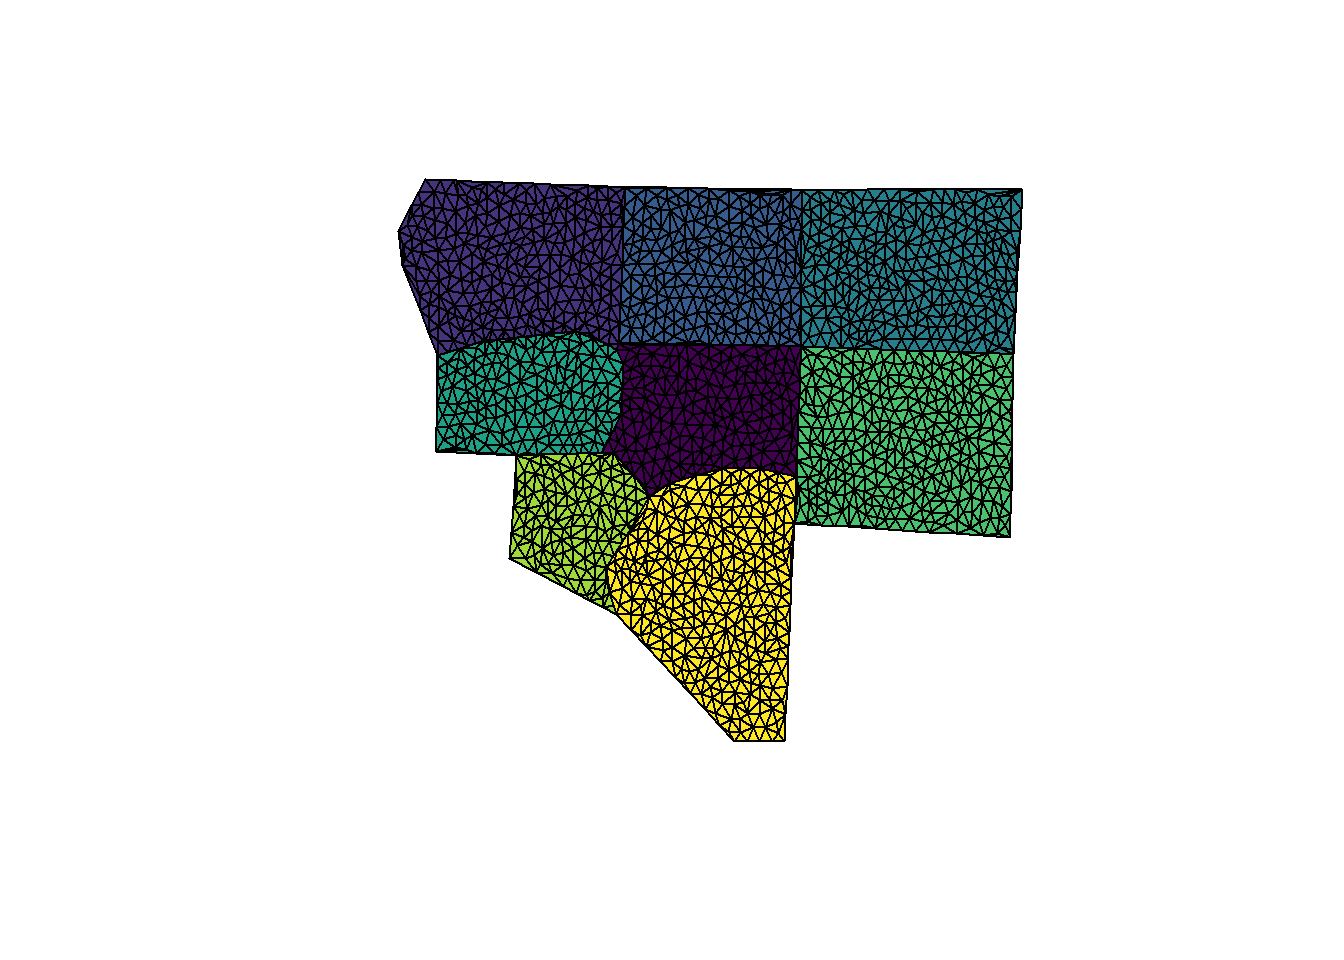
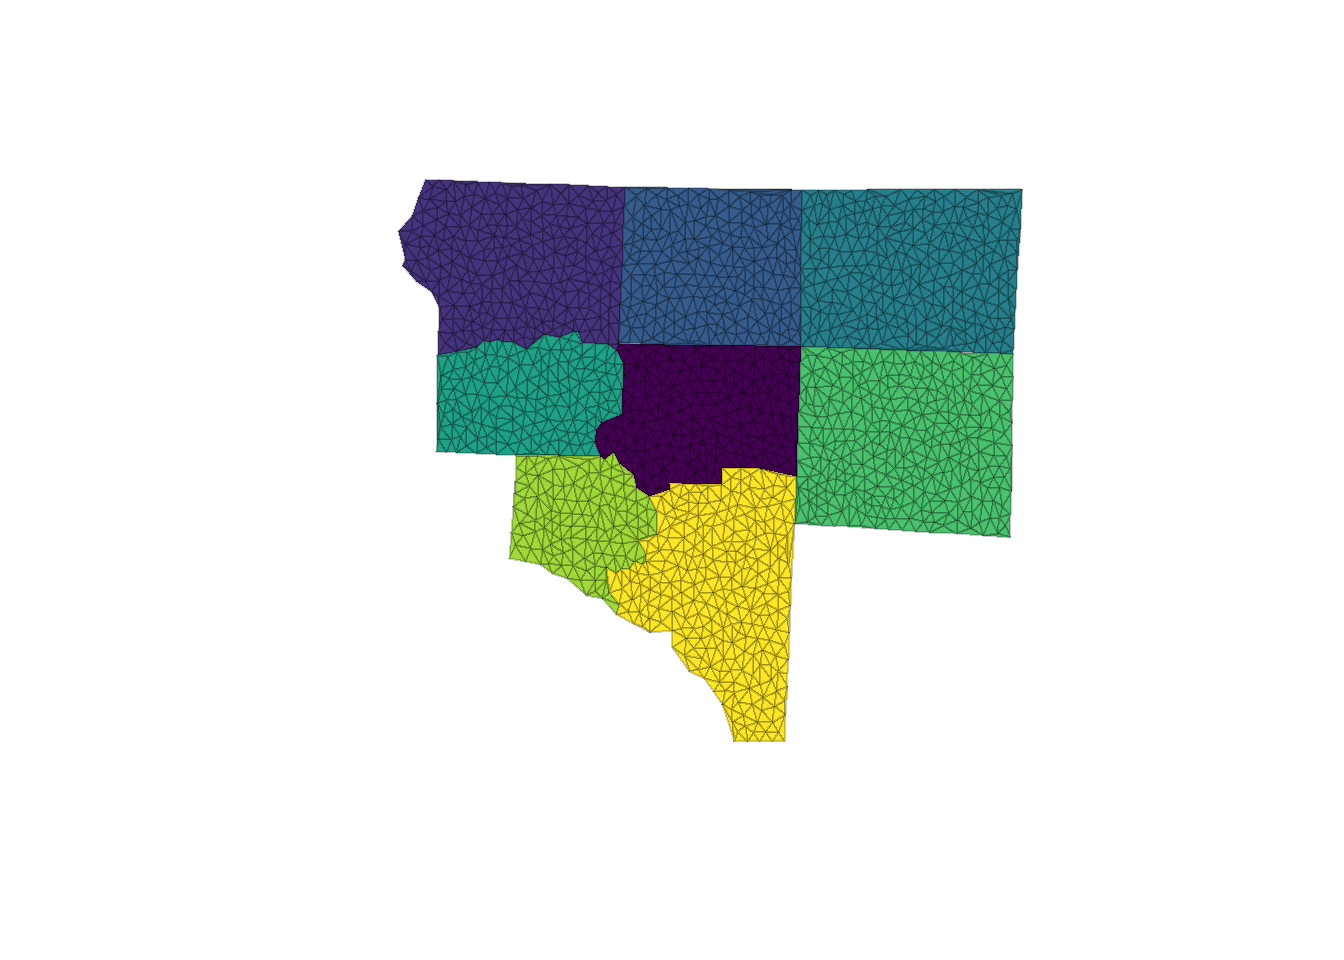
0.0.2

Changed region(s): [[0.2812, 0.1875, 0.7812, 0.7812]]

diff --git a/docs/articles/sfdct.html b/docs/articles/sfdct.html
@@ -53,7 +53,7 @@
       <h1>Constrained triangulation for Simple Features</h1>
                         <h4 class="author">Michael D. Sumner</h4>
             
-            <h4 class="date">2017-01-13</h4>
+            <h4 class="date">2017-02-04</h4>
           </div>
 
     
@@ -75,13 +75,16 @@ nc &lt;-<span class="st"> </span><span class="kw">st_read</span>(<span class="kw
 ## epsg (SRID):    4267
 ## proj4string:    +proj=longlat +datum=NAD27 +no_defs</code></pre>
 <div class="sourceCode"><pre class="sourceCode r"><code class="sourceCode r">nc_triangles &lt;-<span class="st"> </span><span class="kw"><a href="../reference/ct_triangulate.html">ct_triangulate</a></span>(nc)
-<span class="kw">plot</span>(nc_triangles, <span class="dt">col =</span> viridisLite::<span class="kw">viridis</span>(<span class="kw">nrow</span>(nc_triangles)))</code></pre></div>
+## note we have to use st_geometry to get a reasonable map 
+## in short time, unfortunately every single plot call has
+## to be modified, there's no flexibility provided from sf
+<span class="kw">plot</span>(<span class="kw">st_geometry</span>(nc_triangles),   <span class="dt">col =</span> viridisLite::<span class="kw">viridis</span>(<span class="kw">nrow</span>(nc_triangles)))</code></pre></div>
 <p><img src="sfdct_files/figure-html/example-1.png" width="672"></p>
 <p>We can use the underlying <code>RTriangle::triangulate</code> arguments to hone the triangles we get.</p>
 <div class="sourceCode"><pre class="sourceCode r"><code class="sourceCode r">i_feature &lt;-<span class="st"> </span><span class="dv">25</span>
 nc1 &lt;-<span class="st"> </span>nc[<span class="kw">c</span>(i_feature, <span class="kw">unlist</span>(<span class="kw">st_touches</span>(nc[i_feature, ], nc))), ]</code></pre></div>
 <pre><code>## although coordinates are longitude/latitude, it is assumed that they are planar</code></pre>
-<div class="sourceCode"><pre class="sourceCode r"><code class="sourceCode r"><span class="kw">plot</span>(nc1,<span class="dt">col =</span> viridisLite::<span class="kw">viridis</span>(<span class="kw">nrow</span>(nc1)))</code></pre></div>
+<div class="sourceCode"><pre class="sourceCode r"><code class="sourceCode r"><span class="kw">plot</span>(<span class="kw">st_geometry</span>(nc1),<span class="dt">col =</span> viridisLite::<span class="kw">viridis</span>(<span class="kw">nrow</span>(nc1)))</code></pre></div>
 <p><img src="sfdct_files/figure-html/hone-1.png" width="672"></p>
 <div class="sourceCode"><pre class="sourceCode r"><code class="sourceCode r">## subvert st_area because we really don't want m^2
 <span class="kw">st_crs</span>(nc1) &lt;-<span class="st"> </span><span class="ot">NA</span>
@@ -89,17 +92,18 @@ areas &lt;-<span class="st"> </span><span class="kw">st_area</span>(nc1)
 <span class="kw">st_crs</span>(nc1) &lt;-<span class="st"> </span><span class="kw">st_crs</span>(nc)
 nc1_triangles &lt;-<span class="st"> </span><span class="kw"><a href="../reference/ct_triangulate.html">ct_triangulate</a></span>(nc1, <span class="dt">a =</span> <span class="kw">min</span>(areas)/<span class="dv">5</span>)
 bcol &lt;-<span class="st"> </span>viridisLite::<span class="kw">viridis</span>(<span class="kw">nrow</span>(nc1_triangles))
-<span class="kw">plot</span>(nc1_triangles, <span class="dt">col =</span> <span class="ot">NA</span>, <span class="dt">border =</span> bcol)</code></pre></div>
+<span class="kw">plot</span>(<span class="kw">st_geometry</span>(nc1_triangles), <span class="dt">col =</span> <span class="ot">NA</span>, <span class="dt">border =</span> bcol)</code></pre></div>
 <p><img src="sfdct_files/figure-html/hone-2.png" width="672"></p>
 <div class="sourceCode"><pre class="sourceCode r"><code class="sourceCode r">nc2_triangles &lt;-<span class="st"> </span><span class="kw"><a href="../reference/ct_triangulate.html">ct_triangulate</a></span>(nc1, <span class="dt">a =</span> <span class="kw">min</span>(<span class="kw">st_area</span>(<span class="kw">st_set_crs</span>(nc1, <span class="ot">NA</span>)))/<span class="dv">25</span>)
-<span class="kw">plot</span>(nc2_triangles, <span class="dt">col =</span> <span class="ot">NA</span>, <span class="dt">border =</span> bcol)</code></pre></div>
+<span class="kw">plot</span>(<span class="kw">st_geometry</span>(nc2_triangles), <span class="dt">col =</span> <span class="ot">NA</span>, <span class="dt">border =</span> bcol)</code></pre></div>
 <p><img src="sfdct_files/figure-html/hone-3.png" width="672"></p>
 <p>Get a grouped triangulated set from a MULTIPOINT. Note how these aren’t constrained by the edges of the input polygons (because we threw those away!) but these are controlled to have a smaller maximum area.</p>
 <p>Area is calculated in the native coordinates, assuming “planar coordinates”, with no respect to the real world.</p>
-<div class="sourceCode"><pre class="sourceCode r"><code class="sourceCode r">## manual cast to MULTIPOINT
-<span class="kw">st_geometry</span>(nc1) &lt;-<span class="st"> </span><span class="kw">st_sfc</span>(<span class="kw">lapply</span>(<span class="kw">unlist</span>(<span class="kw">unlist</span>(<span class="kw">st_geometry</span>(nc1), <span class="dt">recursive =</span> <span class="ot">FALSE</span>), <span class="dt">recursive =</span> <span class="ot">FALSE</span>), st_multipoint), <span class="dt">crs =</span> <span class="kw">st_crs</span>(nc1))
+<div class="sourceCode"><pre class="sourceCode r"><code class="sourceCode r">## manual cast to MULTIPOINT originally required
+<span class="co">#st_geometry(nc1) &lt;- st_sfc(lapply(unlist(unlist(st_geometry(nc1), recursive = FALSE), recursive = FALSE), st_multipoint), crs = st_crs(nc1))</span>
+mp_nc1 &lt;-<span class="st"> </span><span class="kw">st_cast</span>(nc1, <span class="st">"MULTIPOINT"</span>)
 mtriangs &lt;-<span class="st"> </span><span class="kw"><a href="../reference/ct_triangulate.html">ct_triangulate</a></span>(nc1, <span class="dt">a =</span> <span class="fl">0.0005</span>)
-<span class="kw">plot</span>(mtriangs, <span class="dt">col =</span> viridisLite::<span class="kw">viridis</span>(<span class="kw">nrow</span>(mtriangs)))</code></pre></div>
+<span class="kw">plot</span>(<span class="kw">st_geometry</span>(mtriangs), <span class="dt">col =</span> viridisLite::<span class="kw">viridis</span>(<span class="kw">nrow</span>(mtriangs)), <span class="dt">border =</span> <span class="st">"#00000033"</span>)</code></pre></div>
 <p><img src="sfdct_files/figure-html/MULTIPOINT-1.png" width="672"></p>
 </div>
 </div>

diff --git a/docs/reference/ct_triangulate.html b/docs/reference/ct_triangulate.html
@@ -165,8 +165,7 @@ Triangle library is doing, unless an error occurs.
 <span class='kw'>if</span> (<span class='fu'>packageVersion</span>(<span class='st'>"sf"</span>) <span class='kw'>&lt;=</span> <span class='st'>'0.2.8'</span>){
 <span class='no'>nc</span> <span class='kw'>&lt;-</span> <span class='fu'>st_transform</span>(<span class='no'>nc</span>, <span class='st'>"+proj=eqc +ellps=WGS84"</span>)
 }
-<span class='fu'>plot</span>(<span class='fu'>st_triangulate</span>(<span class='no'>nc</span>[<span class='no'>idx</span>, <span class='fu'>c</span>(<span class='st'>"NAME"</span>, <span class='st'>"geometry"</span>)]), <span class='kw'>col</span> <span class='kw'>=</span> <span class='st'>"grey"</span>)
-<span class='fu'>plot</span>(<span class='fu'>ct_triangulate</span>(<span class='no'>nc</span>[<span class='no'>idx</span>, <span class='fu'>c</span>(<span class='st'>"NAME"</span>, <span class='st'>"geometry"</span>)]))</div><img src='ct_triangulate-7.png' alt='' width='540' height='400' /><div class='input'>
+<span class='fu'>plot</span>(<span class='fu'>st_triangulate</span>(<span class='no'>nc</span>[<span class='no'>idx</span>, <span class='fu'>c</span>(<span class='st'>"NAME"</span>, <span class='st'>"geometry"</span>)]), <span class='kw'>col</span> <span class='kw'>=</span> <span class='st'>"grey"</span>)</div><div class='output co'>#&gt; <span class='warning'>Warning: st_triangulate does not correctly triangulate longitude/latitude data</span></div><div class='input'><span class='fu'>plot</span>(<span class='fu'>ct_triangulate</span>(<span class='no'>nc</span>[<span class='no'>idx</span>, <span class='fu'>c</span>(<span class='st'>"NAME"</span>, <span class='st'>"geometry"</span>)]))</div><img src='ct_triangulate-9.png' alt='' width='540' height='400' /><div class='input'>
 </div></pre>
   </div>
   <div class="col-md-3 hidden-xs hidden-sm" id="sidebar">

diff --git a/docs/reference/index.html b/docs/reference/index.html
@@ -73,7 +73,7 @@
   <div class="col-md-9">
     <div class="page-header">
       <h1>Function reference</h1>
-      <h4>version&nbsp;0.0.1</h4>
+      <h4>version&nbsp;0.0.2</h4>
     </div>
 
     <div class="contents">
@@ -83,7 +83,7 @@
       
       <p><a href="ct_triangulate.html">Constrained Delaunay Triangulation</a></p>
       <ul>
-        <li><code><a href="ct_triangulate.html">ct_triangulate</a></code></li><li><code><a href="ct_triangulate.html">ct_triangulate.sf</a></code></li><li><code><a href="ct_triangulate.html">ct_triangulate.sfg</a></code></li>
+        <li><code><a href="ct_triangulate.html">ct_triangulate</a></code></li><li><code><a href="ct_triangulate.html">ct_triangulate</a></code></li><li><code><a href="ct_triangulate.html">ct_triangulate.sfg</a></code></li><li><code><a href="ct_triangulate.html">ct_triangulate</a></code></li><li><code><a href="ct_triangulate.html">ct_triangulate.sf</a></code></li>
       </ul>
       
       <p><a href="lakesuperior.html">Lake Superior polygons.</a></p>

diff --git a/docs/news/index.html b/docs/news/index.html
@@ -77,11 +77,12 @@
     </div>
 
     <div class="contents">
-    <div id="sfdct-0-0-1" class="section level1">
+    <div id="sfdct-0-0-2" class="section level1">
 <h1 class="hasAnchor">
-<a href="#sfdct-0-0-1" class="anchor"> </a>sfdct 0.0.1</h1>
+<a href="#sfdct-0-0-2" class="anchor"> </a>sfdct 0.0.2</h1>
 <ul>
-<li>first release</li>
+<li><p>more coverage of types, will at least work for the non-exotics in an sf dataframe</p></li>
+<li><p>first release</p></li>
 </ul>
 </div>
     </div>
@@ -91,7 +92,7 @@
     <div id="tocnav">
       <h2>Contents</h2>
       <ul class="nav nav-pills nav-stacked">
-        <li><a href="#sfdct-0-0-1">0.0.1</a></li>
+        <li><a href="#sfdct-0-0-2">0.0.2</a></li>
       </ul>
     </div>
   </div>

diff --git a/docs/articles/index.html b/docs/articles/index.html
@@ -70,7 +70,7 @@
       </header>
 
       <div class="page-header">
-  <h1>Vignette reference <small>version&nbsp;0.0.1</small></h1>
+  <h1>Vignette reference <small>version&nbsp;0.0.2</small></h1>
 </div>
 
 <div class="row">

diff --git a/NEWS.md b/NEWS.md
@@ -1,4 +1,6 @@
-# sfdct 0.0.1
+# sfdct 0.0.2
+
+* more coverage of types, will at least work for the non-exotics in an sf dataframe
 
 * first release
 
